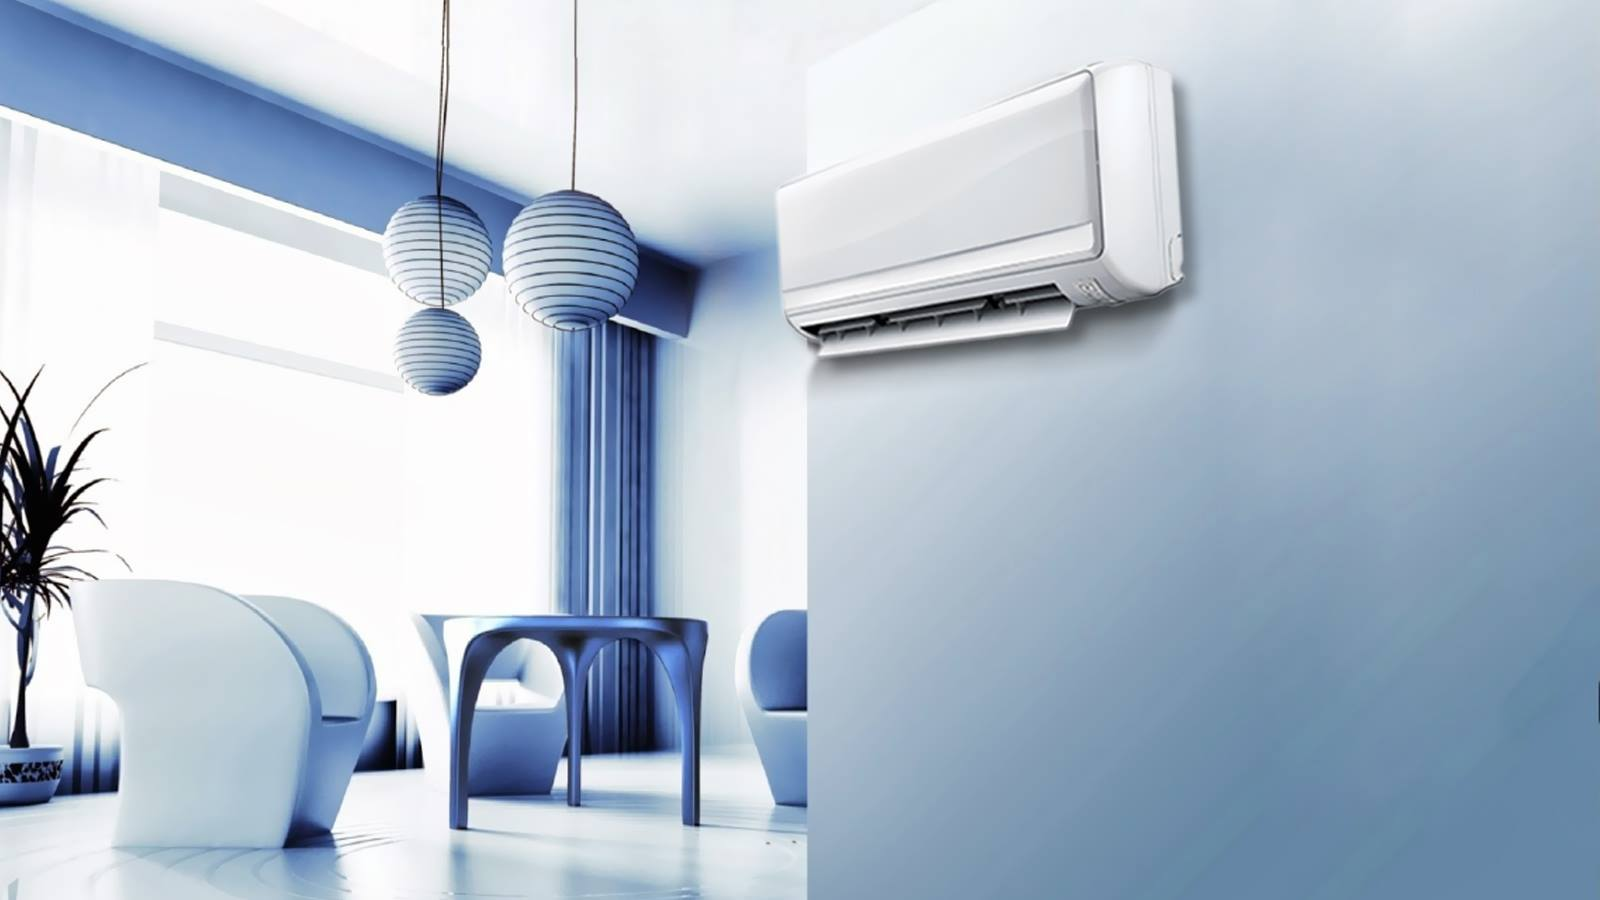
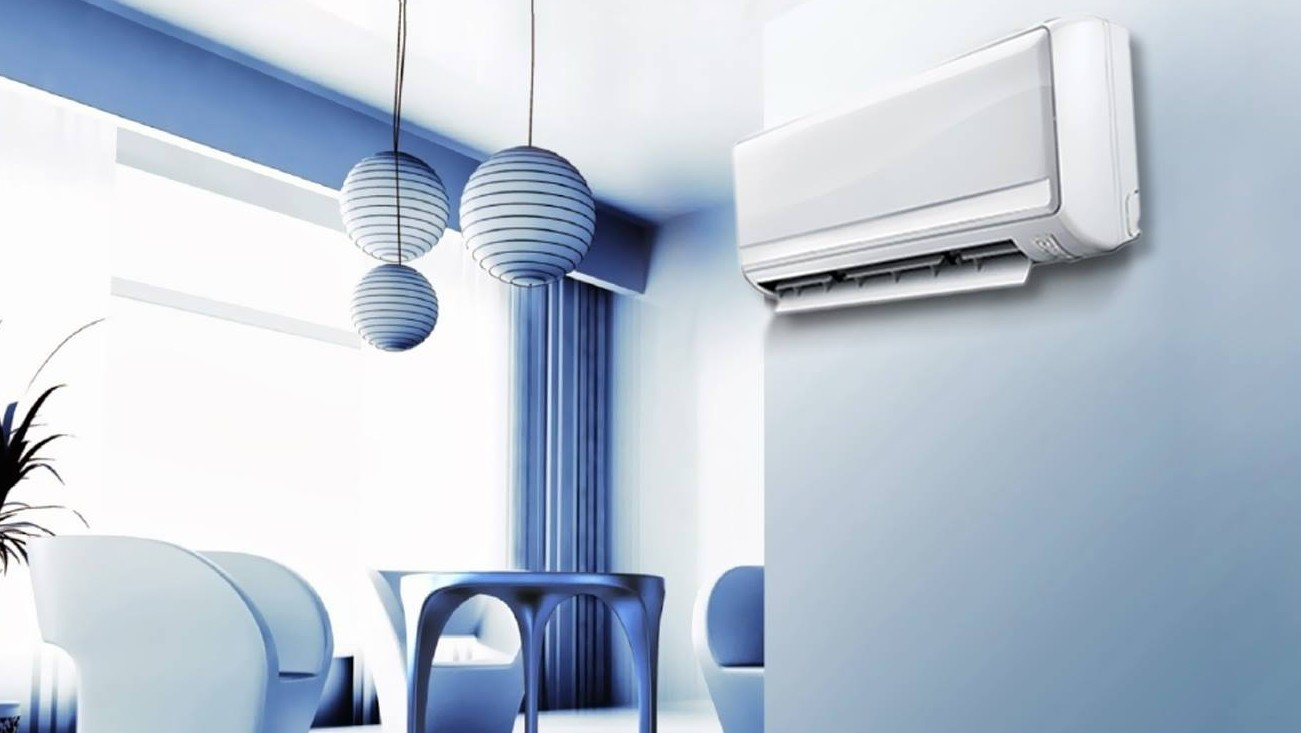
just inserted respective images in the side pockets of scroll section

diff --git a/css/master.css b/css/master.css
@@ -46,6 +46,7 @@ section:not(#main):nth-of-type(odd){
 
 .sImg{
     width: 30rem;
+    height: 20rem;
     margin: 1rem;
 }
 

diff --git a/index.php b/index.php
@@ -70,7 +70,7 @@
                 </div>
                 
                 <div>
-                    <img class="sImg" src="img/tv.jpg" alt="">
+                    <img class="sImg" src="img/refrigerator.jpeg" alt="">
                 </div>
             
             </section>
@@ -79,7 +79,7 @@
             <section>
                 
                 <div>
-                    <img class="sImg" src="img/tv.jpg" alt="">
+                    <img class="sImg" src="img/air-cooler.jpeg" alt="">
                 </div>
                 
                 <div class="content">
@@ -99,7 +99,7 @@
                 </div>
 
                 <div>
-                    <img class="sImg" src="img/tv.jpg" alt="">
+                    <img class="sImg" src="img/ac3.jpg" alt="">
                 </div>
 
             </section>
@@ -109,7 +109,7 @@
             <section>
 
                 <div>
-                    <img class="sImg" src="img/tv.jpg" alt="">
+                    <img class="sImg" src="img/washing-machine.jpg" alt="">
                 </div>
                 
                 <div class="content">
@@ -128,7 +128,7 @@
                 </div>
 
                 <div>
-                    <img class="sImg" src="img/tv.jpg" alt="">
+                    <img class="sImg" src="img/mobile.jpg" alt="">
                 </div>
 
             </section>
@@ -138,7 +138,7 @@
             <section>
                 
                 <div>
-                    <img class="sImg" src="img/tv.jpg" alt="">
+                    <img class="sImg" src="img/oven.jpg" alt="">
                 </div>
 
                 <div class="content">
@@ -158,20 +158,7 @@
                 </div>
 
                 <div>
-                    <img class="sImg" src="img/tv.jpg" alt="">
-                </div>
-
-            </section>
-
-
-            <section>
-                <div>
-                    <img class="sImg" src="img/tv.jpg" alt="">
-                </div>
-
-                <div class="content">
-                    <h2>See Big Think Big</h2>
-                    <p>Lorem ipsum dolor sit amet consectetur adipisicing elit. Rem deserunt, iusto eaque atque maiores nobis porro debitis, optio dolores ea voluptatum nemo consectetur dolorem similique.</p>
+                    <img class="sImg" src="img/speaker2.jpg" alt="">
                 </div>
 
             </section>
